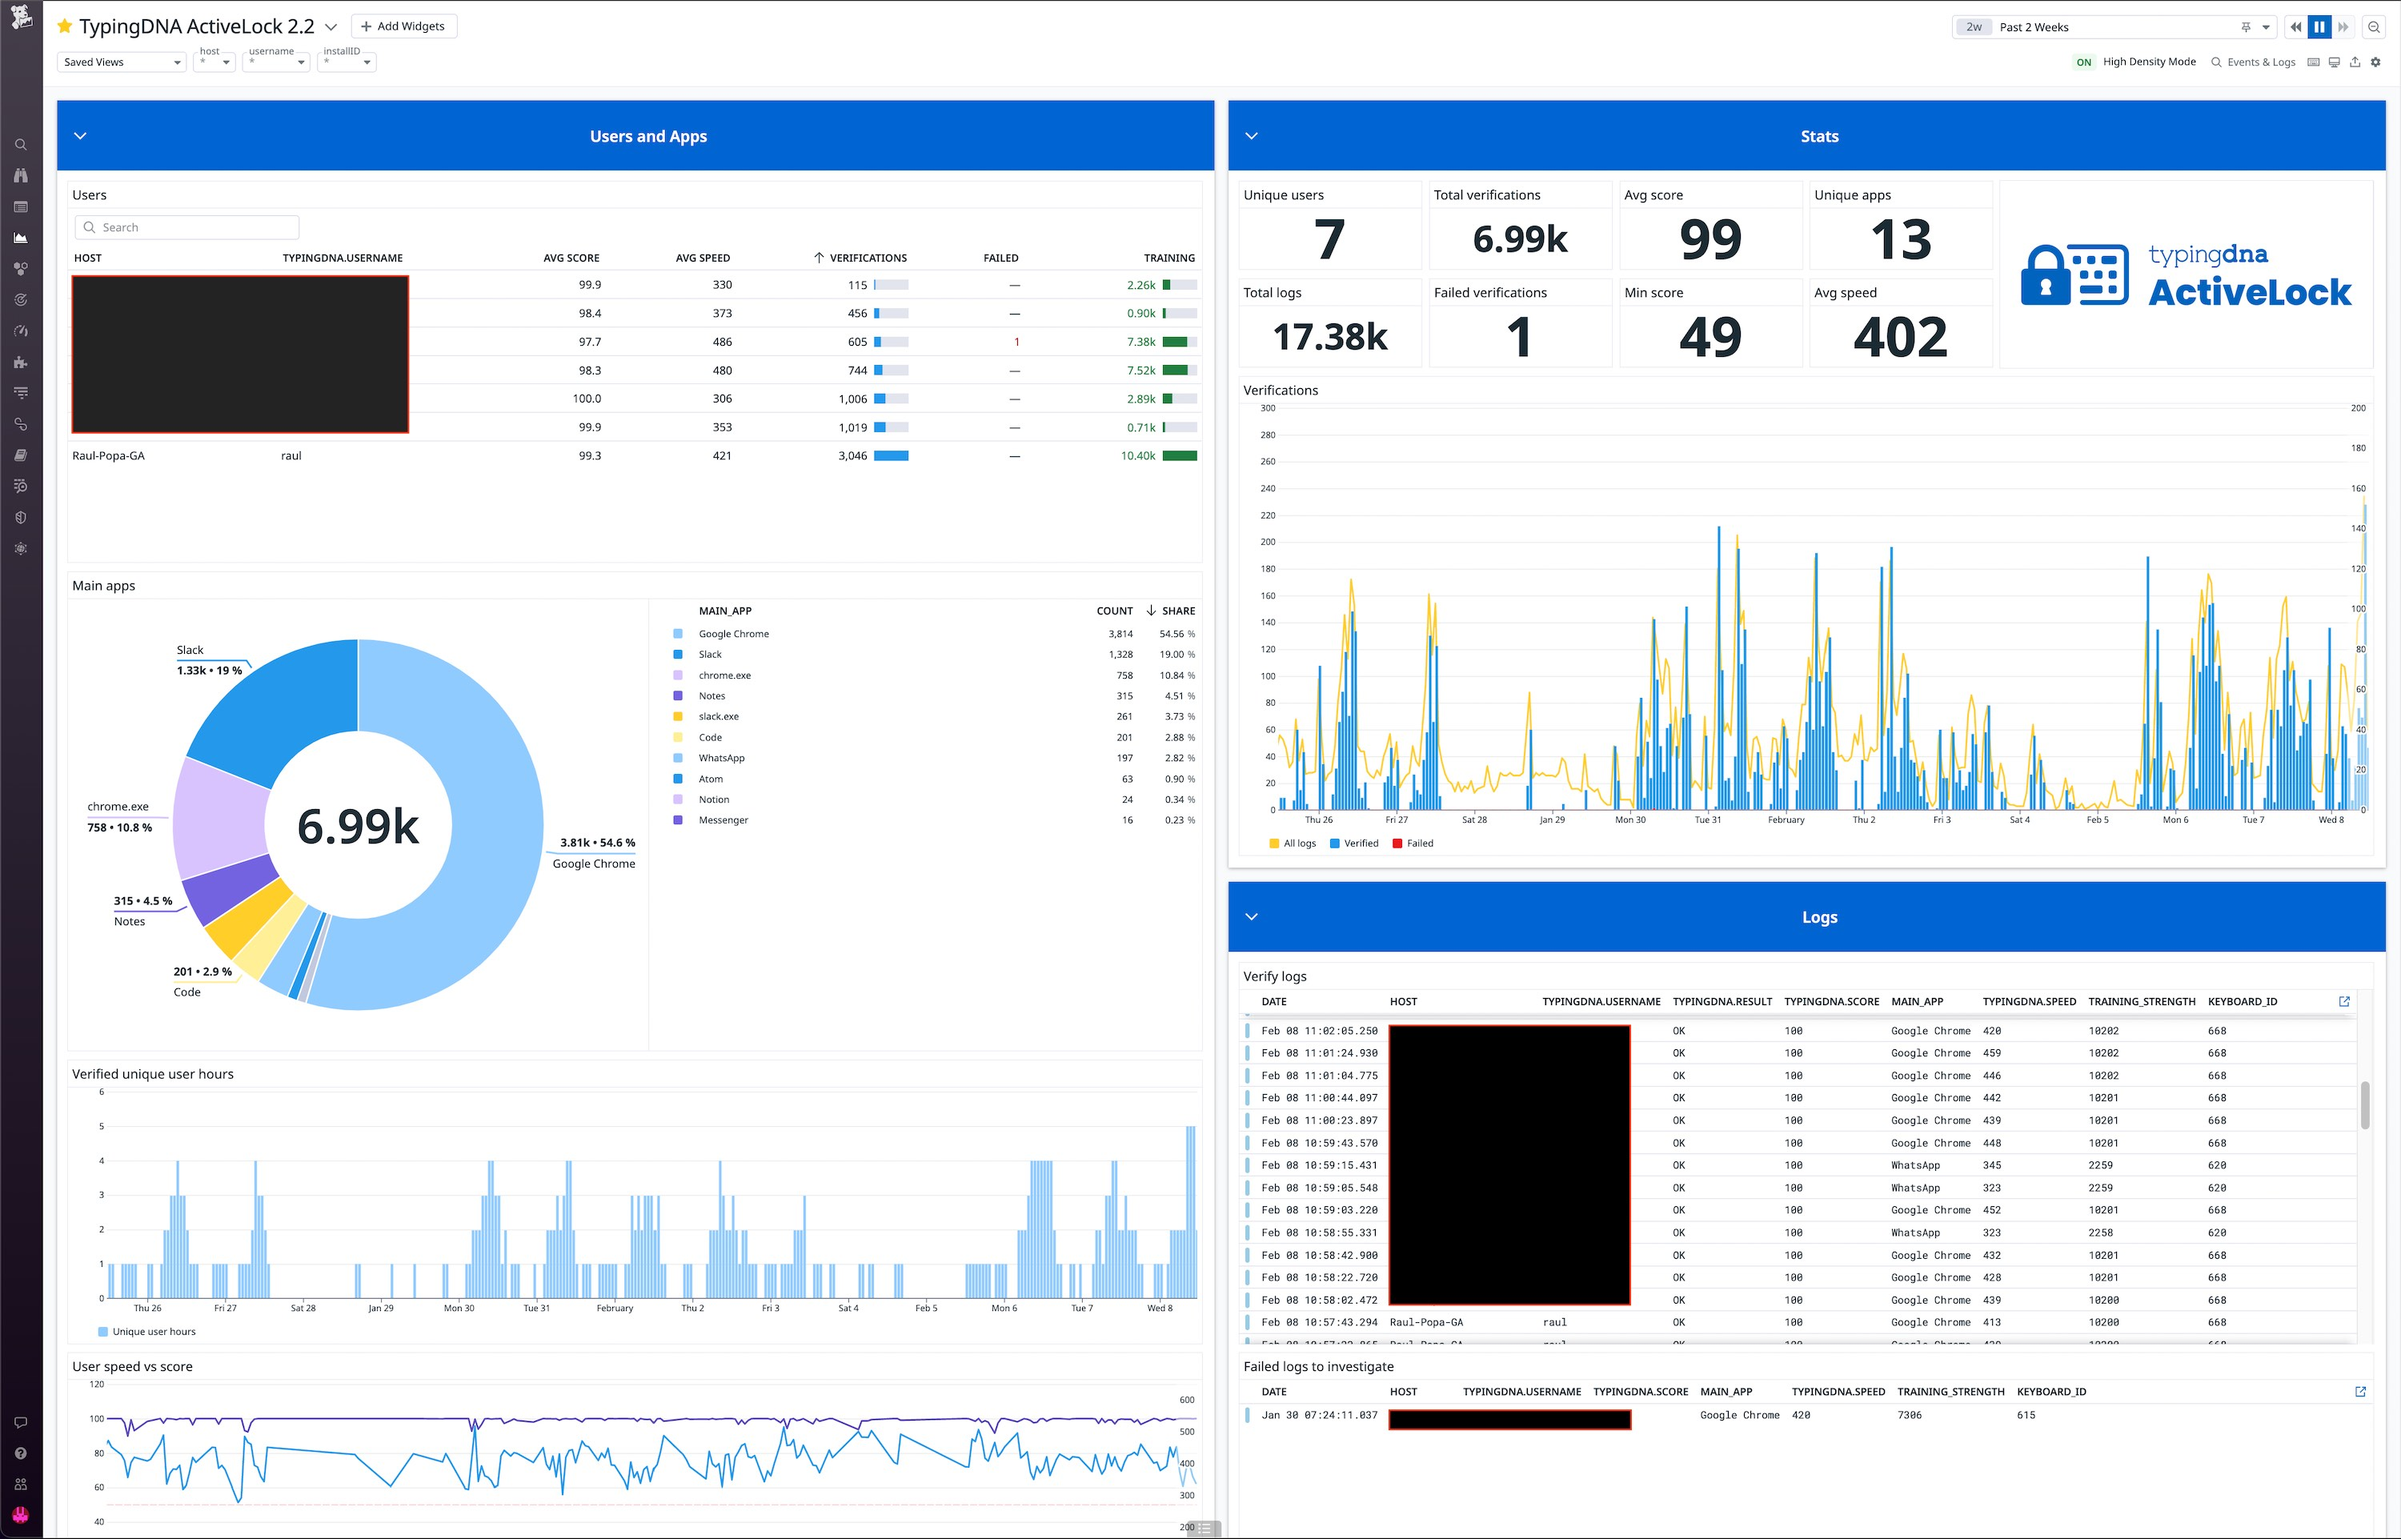
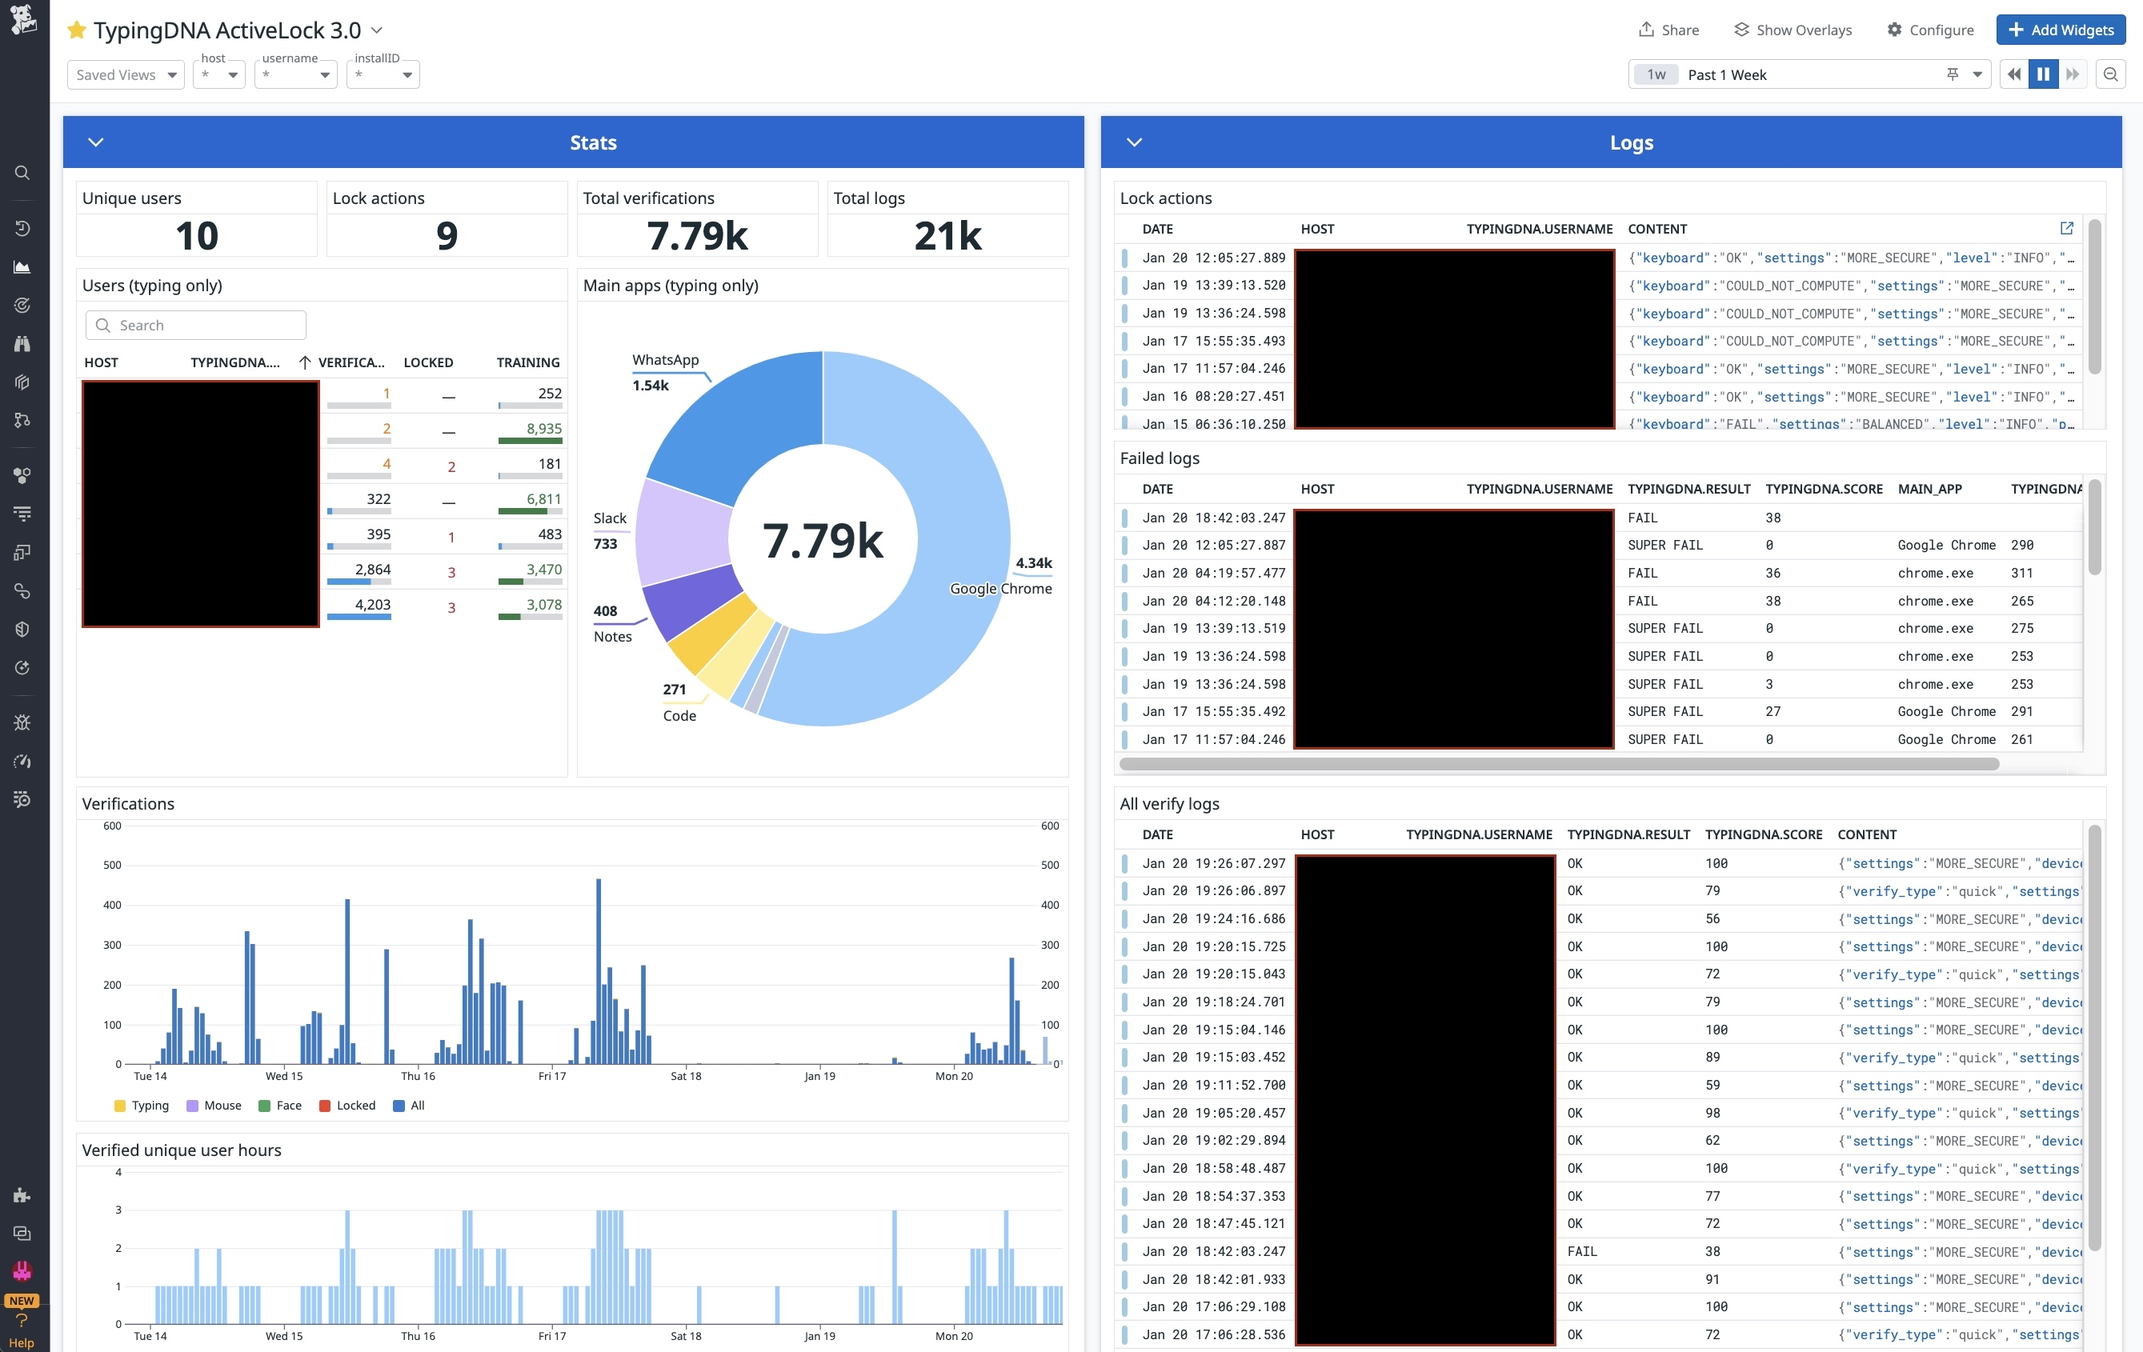
Updates for new dashboard
Update the dashboard jpg for manifest, and changelog.md update to support the new dashboard update.

diff --git a/typingdna_activelock/CHANGELOG.md b/typingdna_activelock/CHANGELOG.md
@@ -7,3 +7,8 @@
 
 * adds ActiveLock integration.
 
+## 1.0.1 / 2025-1-20
+
+***Added***:
+
+* adds new dashboard, version 3.0
